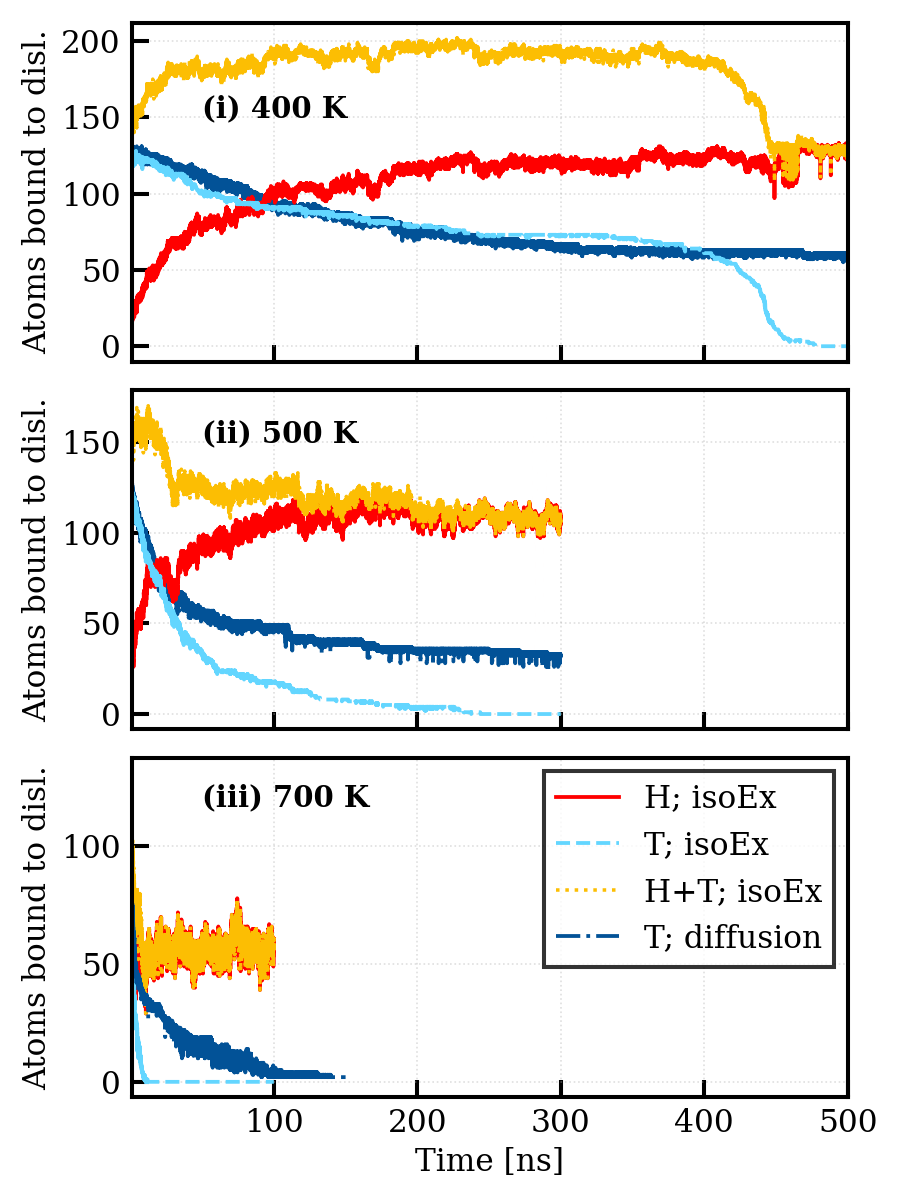
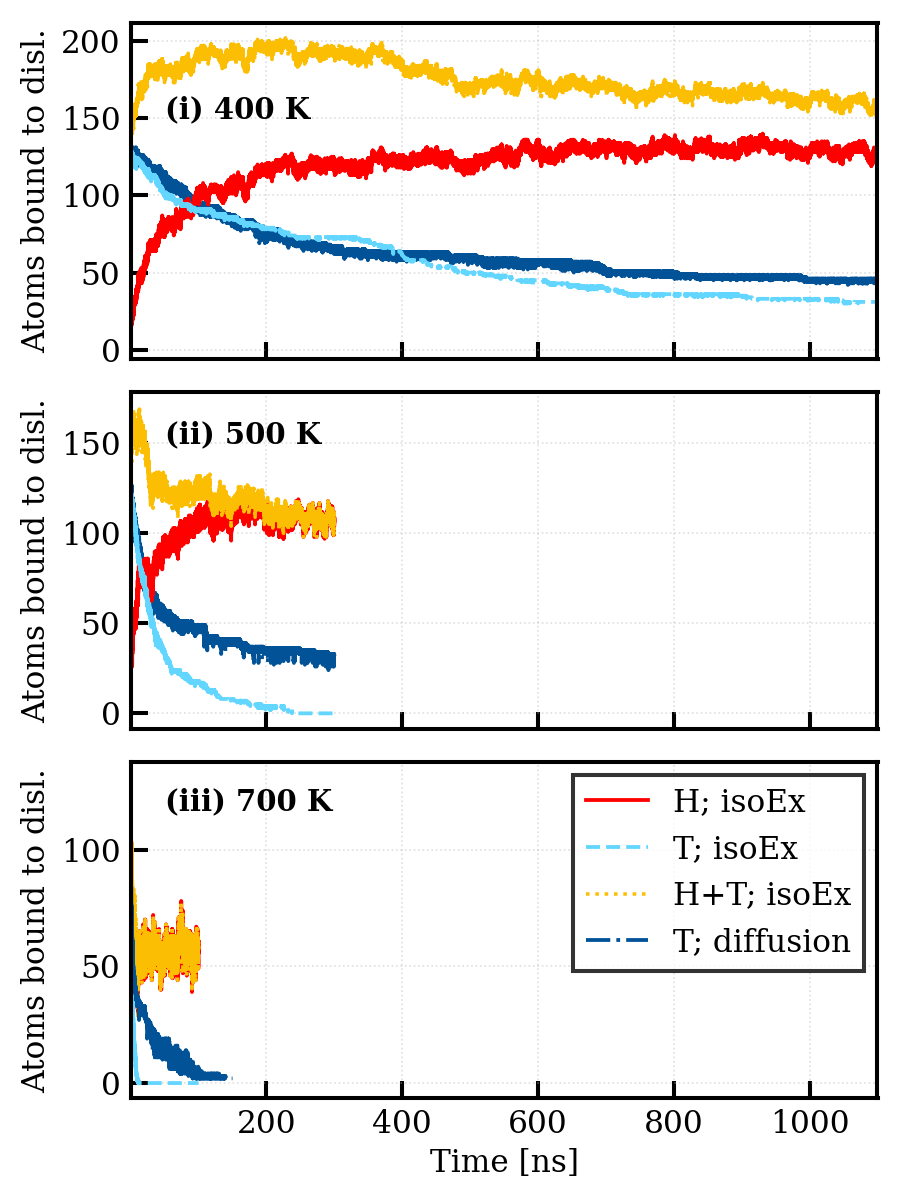
Update simulation results (#5)
* update plotting scripts

* update GB plotting script

* update disloc plotting script

* re-draw plots

* re-draw GB plots

* update GB plotting script

* add disloc Ebind distribution graph

* fix ITER cross section citation

* move acknowledement to own file

* update conclusions

* update results

* update Discussion section

* update isoEx plots

* update disloc plotting script

* update isoEx plots

* update conclusions

diff --git a/6_Conclusions.tex b/6_Conclusions.tex
@@ -5,11 +5,13 @@
 In this thesis, we have studied hydrogen isotope exchange in crystal defects of bulk tungsten using molecular dynamics. 
 Due to their high prevalence in irradiated materials, our simulations targeted hydrogen accumulated into mono- and divacancies, dislocations and grain boundaries.  
 
-Our results indicated significantly improved tritium removal rates for all considered defect types when isotope exchange was employed compared to pure diffusion-based removal methods at temperatures of 500 K and above.
-Through comparison of T-removal rates normalised based on the initial occupation of the defect, we managed to show that the removal occurs fastest from monovacancies (0.01 atoms/ns) and slowest from grain boundaries (0.0017 atoms/ns), with dislocations falling in between (0.003 atoms/ns).
+Our results indicated significantly improved tritium removal rates for all considered defect types when isotope exchange was employed, compared to pure diffusion-based removal methods at temperatures of 500 K and above.
+Through comparison of T-removal rates normalised based on the initial hydrogen population of the defect, we managed to show that the removal occurs fastest from monovacancies (0.01 atoms/ns) and slowest from grain boundaries (0.0017 atoms/ns), with dislocations falling in between (0.003 atoms/ns).
 
-Finally, our results serve to prove that it is possible to study the mechanism of isotope exchange using molecular dynamics methods, despite the limitations it poses on simulation time scales and system sizes.
 Being well in line with earlier experimental work in the field \cite{ahlgren2019hydrogen}, our results provide an atom-level view into the isotope exchange mechanism, showing that it indeed is based on keeping the defect saturated, with loosely bound hydrogen atoms available through the entire annealing process.
 
-In the future, the results of this study could be expanded by studying hydrogen isotope exchange around impurity atoms in tungsten.
-This would, however, require the existence of a reliable and efficient potential e.g. for a W-H-C system.   
+Finally, our results serve to prove that it is possible to study the mechanism of isotope exchange using molecular dynamics methods, despite the limitations it poses on simulation time scales and system sizes.
+With simulation times ranging up to microseconds and a temporal resolution of the order of picoseconds, MD provides an excellent tool for bridging the gap between micro- and macroscopic studies.
+
+In the future, the results of this study could be extended through a study of impurity atoms in tungsten, as well as their effects on hydrogen trapping and removal.
+This would, however, require a reliable and efficient potential to be developed e.g. for a W-H-C system -- a task far beyond the scope of this thesis.

diff --git a/5_Results.tex b/5_Results.tex
@@ -147,7 +147,17 @@ The normalised T-removal rate at 500 K appears to be around $\delta_{\text{T}} =
 \section{Discussion}
 % ----------------------------------------------------------------------------------
 The isotope exchange mechanism has now been confirmed to occur in monovacancies and vacancy clusters. 
-The effect has also been observed in dislocations and grain boundaries, but is not as pronounced in these more extensive defects, probably due to their larger hydrogen trapping capacity and the almost continuous binding energy range of about 0 to 0.9 eV \cite{grigorev2015interaction}.
+The effect has also been observed in dislocations and grain boundaries, but is not as pronounced in these more extensive defects, probably due to their larger hydrogen trapping capacity and the almost continuous binding energy range of about 0 to 0.9 eV \cite{grigorev2015interaction}. 
+This can be understood by studying \ref{Fig:Disloc_ebind_dist}, where the binding energy of a hydrogen atom has been plotted as a function of its position around the core of an edge dislocation. 
+While a vacancy effectively acts as a potential well in the otherwise relatively flat landscape of the lattice, the dislocation is able to trap hydrogen at distances several times the lattice constant from its core.
+
+
+\begin{figure}[!ht]
+	\center
+	\includegraphics[width=0.7\linewidth]{disloc-ebind-distribution.png}
+	\caption{The H binding energy distribution around the core of an 1/2\hkl[1 1 1]\hkl{1 1 0} edge dislocation using the Bonny \textit{et al.} EAM2 potential \cite{bonny2014many}. Source: Fig. 6 in \cite{grigorev2015interaction}}
+	\label{Fig:Disloc_ebind_dist}
+\end{figure}
 
 Comparing the normalised T-removal rates of the various defect types, we see that the removal occurs fastest in vacancies ($\delta_{\text{T}} = 0.01$ atoms/ns) and slowest in grain boundaries ($\delta_{\text{T}} = 0.0017$ atoms/ns). 
 Dislocations ($\delta_{\text{T}} = 0.003$ atoms/ns) fell in between the other two, with a normalised removal rate almost twice that of the grain boundary, but less than half of the rate observed for the vacancy.

diff --git a/plotting-scripts/plot_2Vac_isoEx_comp.py b/plotting-scripts/plot_2Vac_isoEx_comp.py
@@ -11,8 +11,8 @@ path += '2Vac_isoEx_results/'
 # HinVac.out format: Timestep NTinVac NHinVac NTinCell
 tTH_isoEx = readData(path+'2Vac_2000W_20H_10T_500K_500ns/HinVac.out', [0,1,2])
 tTH_diff  = readData(path+'2Vac_2000W_0H_10T_500K_1000ns/HinVac.out', [0,1,2])
-tTH_isoEx_400K = readData(path+'2Vac_2000W_20H_10T_400K_700ns/HinVac.out', [0,1,2])
-tT_diff_400K  = readData(path+'2Vac_2000W_0H_10T_400K_500ns/HinVac.out', [0,1,2])
+tTH_isoEx_400K = readData(path+'2Vac_2000W_20H_10T_400K_3600ns/HinVac.out', [0,1,2])
+tT_diff_400K  = readData(path+'2Vac_2000W_0H_10T_400K_3600ns/HinVac.out', [0,1,2])
 #tTH_isoEx_700K = readData(path+'2Vac_2000W_20H_10T_700K_100ns/HinVac.out', [0,1,2])
 #tT_diff_700K  = readData(path+'2Vac_2000W_0H_10T_700K_1000ns/HinVac.out', [0,1,2])
 
@@ -33,7 +33,7 @@ print('Drawing figures ...')
 fsize = [6.0, 5.0]
 
 # Upper x-axis limit [ns]
-xulim = 2000.0
+xulim = 3600.0
 
 # axis labels
 ylbl = 'Atoms bound to Vac'

diff --git a/plotting-scripts/plot_GB_isoEx_comp.py b/plotting-scripts/plot_GB_isoEx_comp.py
@@ -9,8 +9,8 @@ from dataUtils import readData
 path += 'GB_3000W_isoEx_results/'
 
 # HinVac.out format: Timestep NTinVac NHinVac NTinCell
-tTH_isoEx_400K = readData(path+'yGB_3000W_100H_73T_400K_600ns/HinGB.out', [0,1,2])
-tT_diff_400K = readData(path+'yGB_3000W_0H_73T_400K_700ns/HinGB.out', [0,1])
+tTH_isoEx_400K = readData(path+'yGB_3000W_100H_73T_400K_3000ns/HinGB.out', [0,1,2])
+tT_diff_400K = readData(path+'yGB_3000W_0H_73T_400K_3000ns/HinGB.out', [0,1])
 tTH_isoEx_500K = readData(path+'yGB_3000W_100H_73T_500K_600ns/HinGB.out', [0,1,2])
 tT_diff_500K = readData(path+'yGB_3000W_0H_73T_500K_600ns/HinGB.out', [0,1])
 tTH_isoEx_700K = readData(path+'yGB_3000W_100H_73T_700K_200ns/HinGB.out', [0,1,2])
@@ -33,7 +33,7 @@ print('Drawing figures ...')
 fsize = [6.0, 8.0]
 
 # Upper x-axis limit
-xulim = 1000.0
+xulim = 3000.0
 
 # axis labels
 ylbl = 'Atoms bound to GB'

diff --git a/plotting-scripts/plot_disloc_isoEx_comp.py b/plotting-scripts/plot_disloc_isoEx_comp.py
@@ -9,8 +9,8 @@ from dataUtils import readData
 path += 'disloc_isoEx_results/'
 
 # HinVac.out format: Timestep NTinVac NHinVac NTinCell
-tTH_isoEx_400K = readData(path+'disloc_isoEx_400K_500ns/HinDisl.out', [0,1,2])
-tT_diff_400K = readData(path+'disloc_isoEx_400K_0H_500ns/HinDisl.out', [0,1])
+tTH_isoEx_400K = readData(path+'disloc_isoEx_400K_1500ns/HinDisl.out', [0,1,2])
+tT_diff_400K = readData(path+'disloc_isoEx_400K_0H_1500ns/HinDisl.out', [0,1])
 tTH_isoEx_500K = readData(path+'disloc_isoEx_500K_350ns/HinDisl.out', [0,1,2])
 tT_diff_500K = readData(path+'disloc_isoEx_500K_0H_300ns/HinDisl.out', [0,1])
 tTH_isoEx_700K = readData(path+'disloc_isoEx_700K_100ns/HinDisl.out', [0,1,2])
@@ -32,7 +32,7 @@ print('Drawing figures ...')
 fsize = [6.0, 8.0]
 
 # Upper x-axis limit [ns]
-xulim = 500.0
+xulim = 1100.0
 
 # axis labels
 ylbl = 'Atoms bound to disl.'

diff --git a/2_Theory.tex b/2_Theory.tex
@@ -60,7 +60,7 @@ For instance, the vertical targets of the ITER divertor, visible in Fig. \ref{fi
 \begin{figure}[!ht]
 \center
 \includegraphics[scale=0.1]{vacuumvessel_edited.png}
-\caption{A section of the ITER tokamak with the plasma facing components highlighted. Adapted from http://www.iter.org/, \copyright~ITER Organization}
+\caption{A section of the ITER tokamak with the plasma facing components highlighted. Source: Adapted from \cite{ITERCrossSection}}
 \label{fig:ITERslice}
 \end{figure}
 

diff --git a/thesis.tex b/thesis.tex
@@ -184,7 +184,7 @@ Käyttämällä pienikokoisia järjestelmiä, olemme onnistuneet simuloimaan iso
 %--------------------------------------------------------------------
 
 \input{./7_Acknowledgements.tex}
-Computational resources were provided by the University of Helsinki and FCGI -- Finnish Grid and Cloud Infrastructure \cite{finnishGridAndCloud}.
+
 
 %-------------------------------------------------------------------------------
 

diff --git a/7_Acknowledgements.tex b/7_Acknowledgements.tex
@@ -1,3 +1,5 @@
 % ===================================================================================================
 \chapter{Acknowledgements}
 % ===================================================================================================
+
+Computational resources were provided by the University of Helsinki and FCGI -- Finnish Grid and Cloud Infrastructure \cite{finnishGridAndCloud}.
